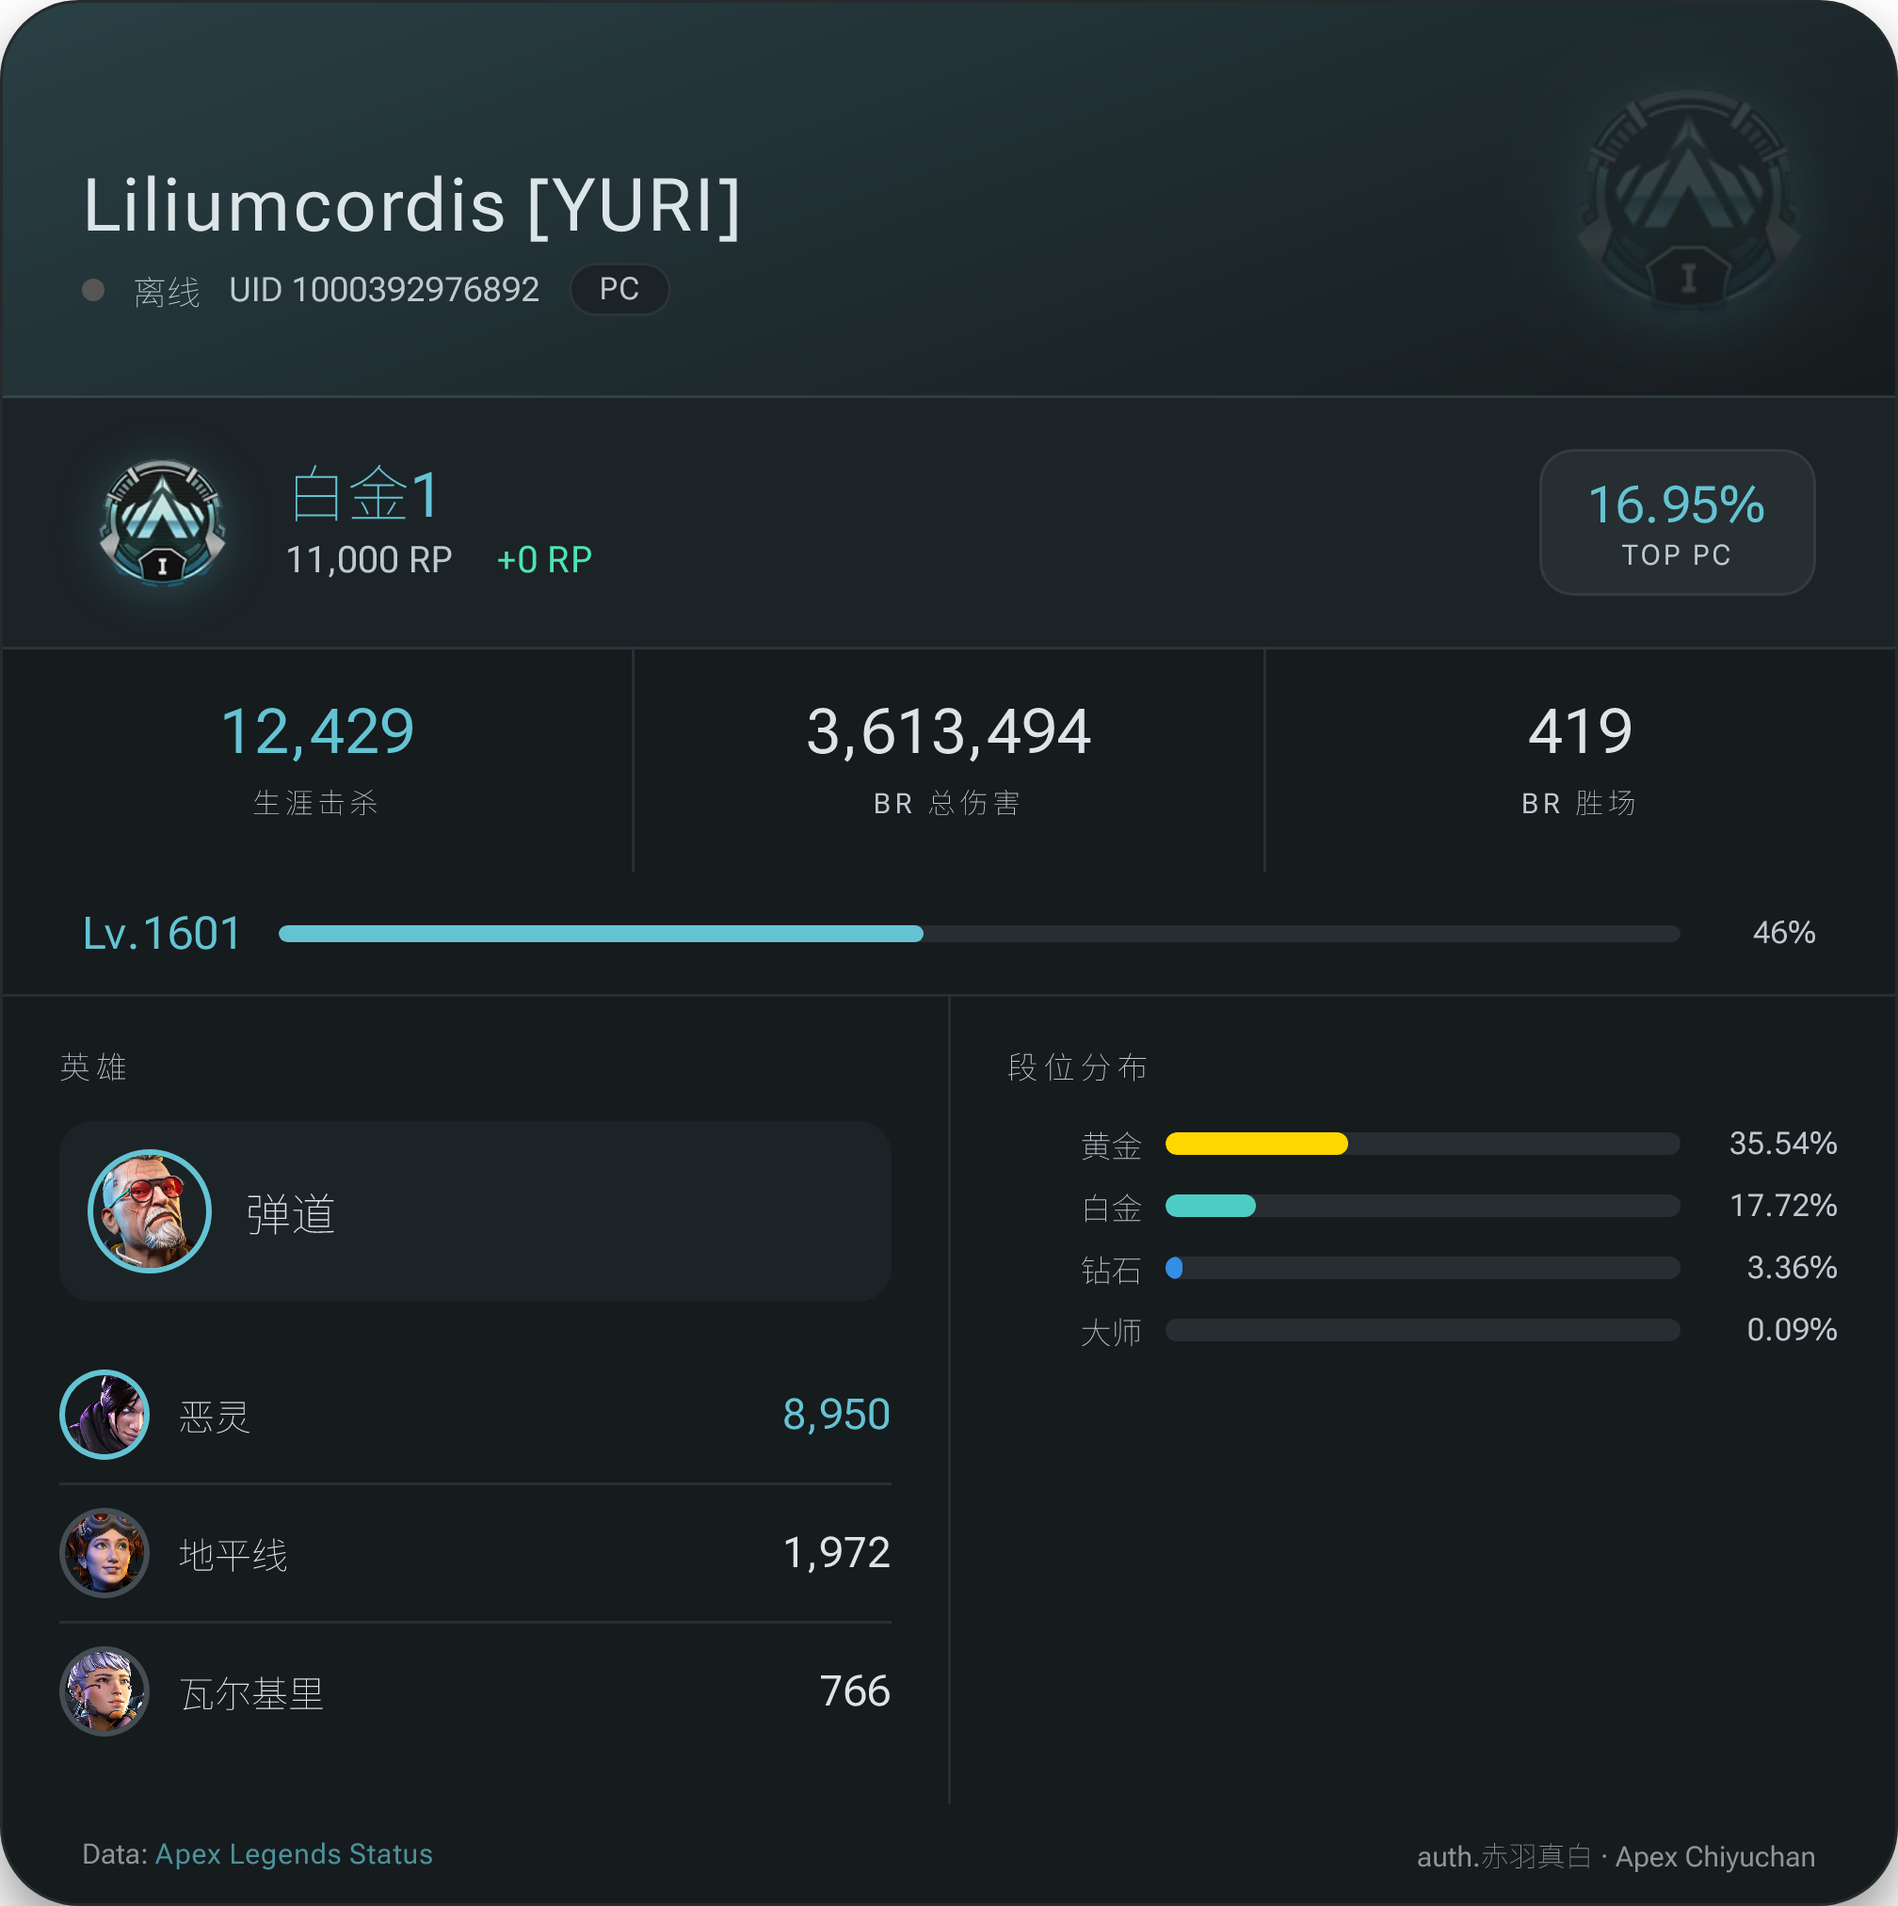
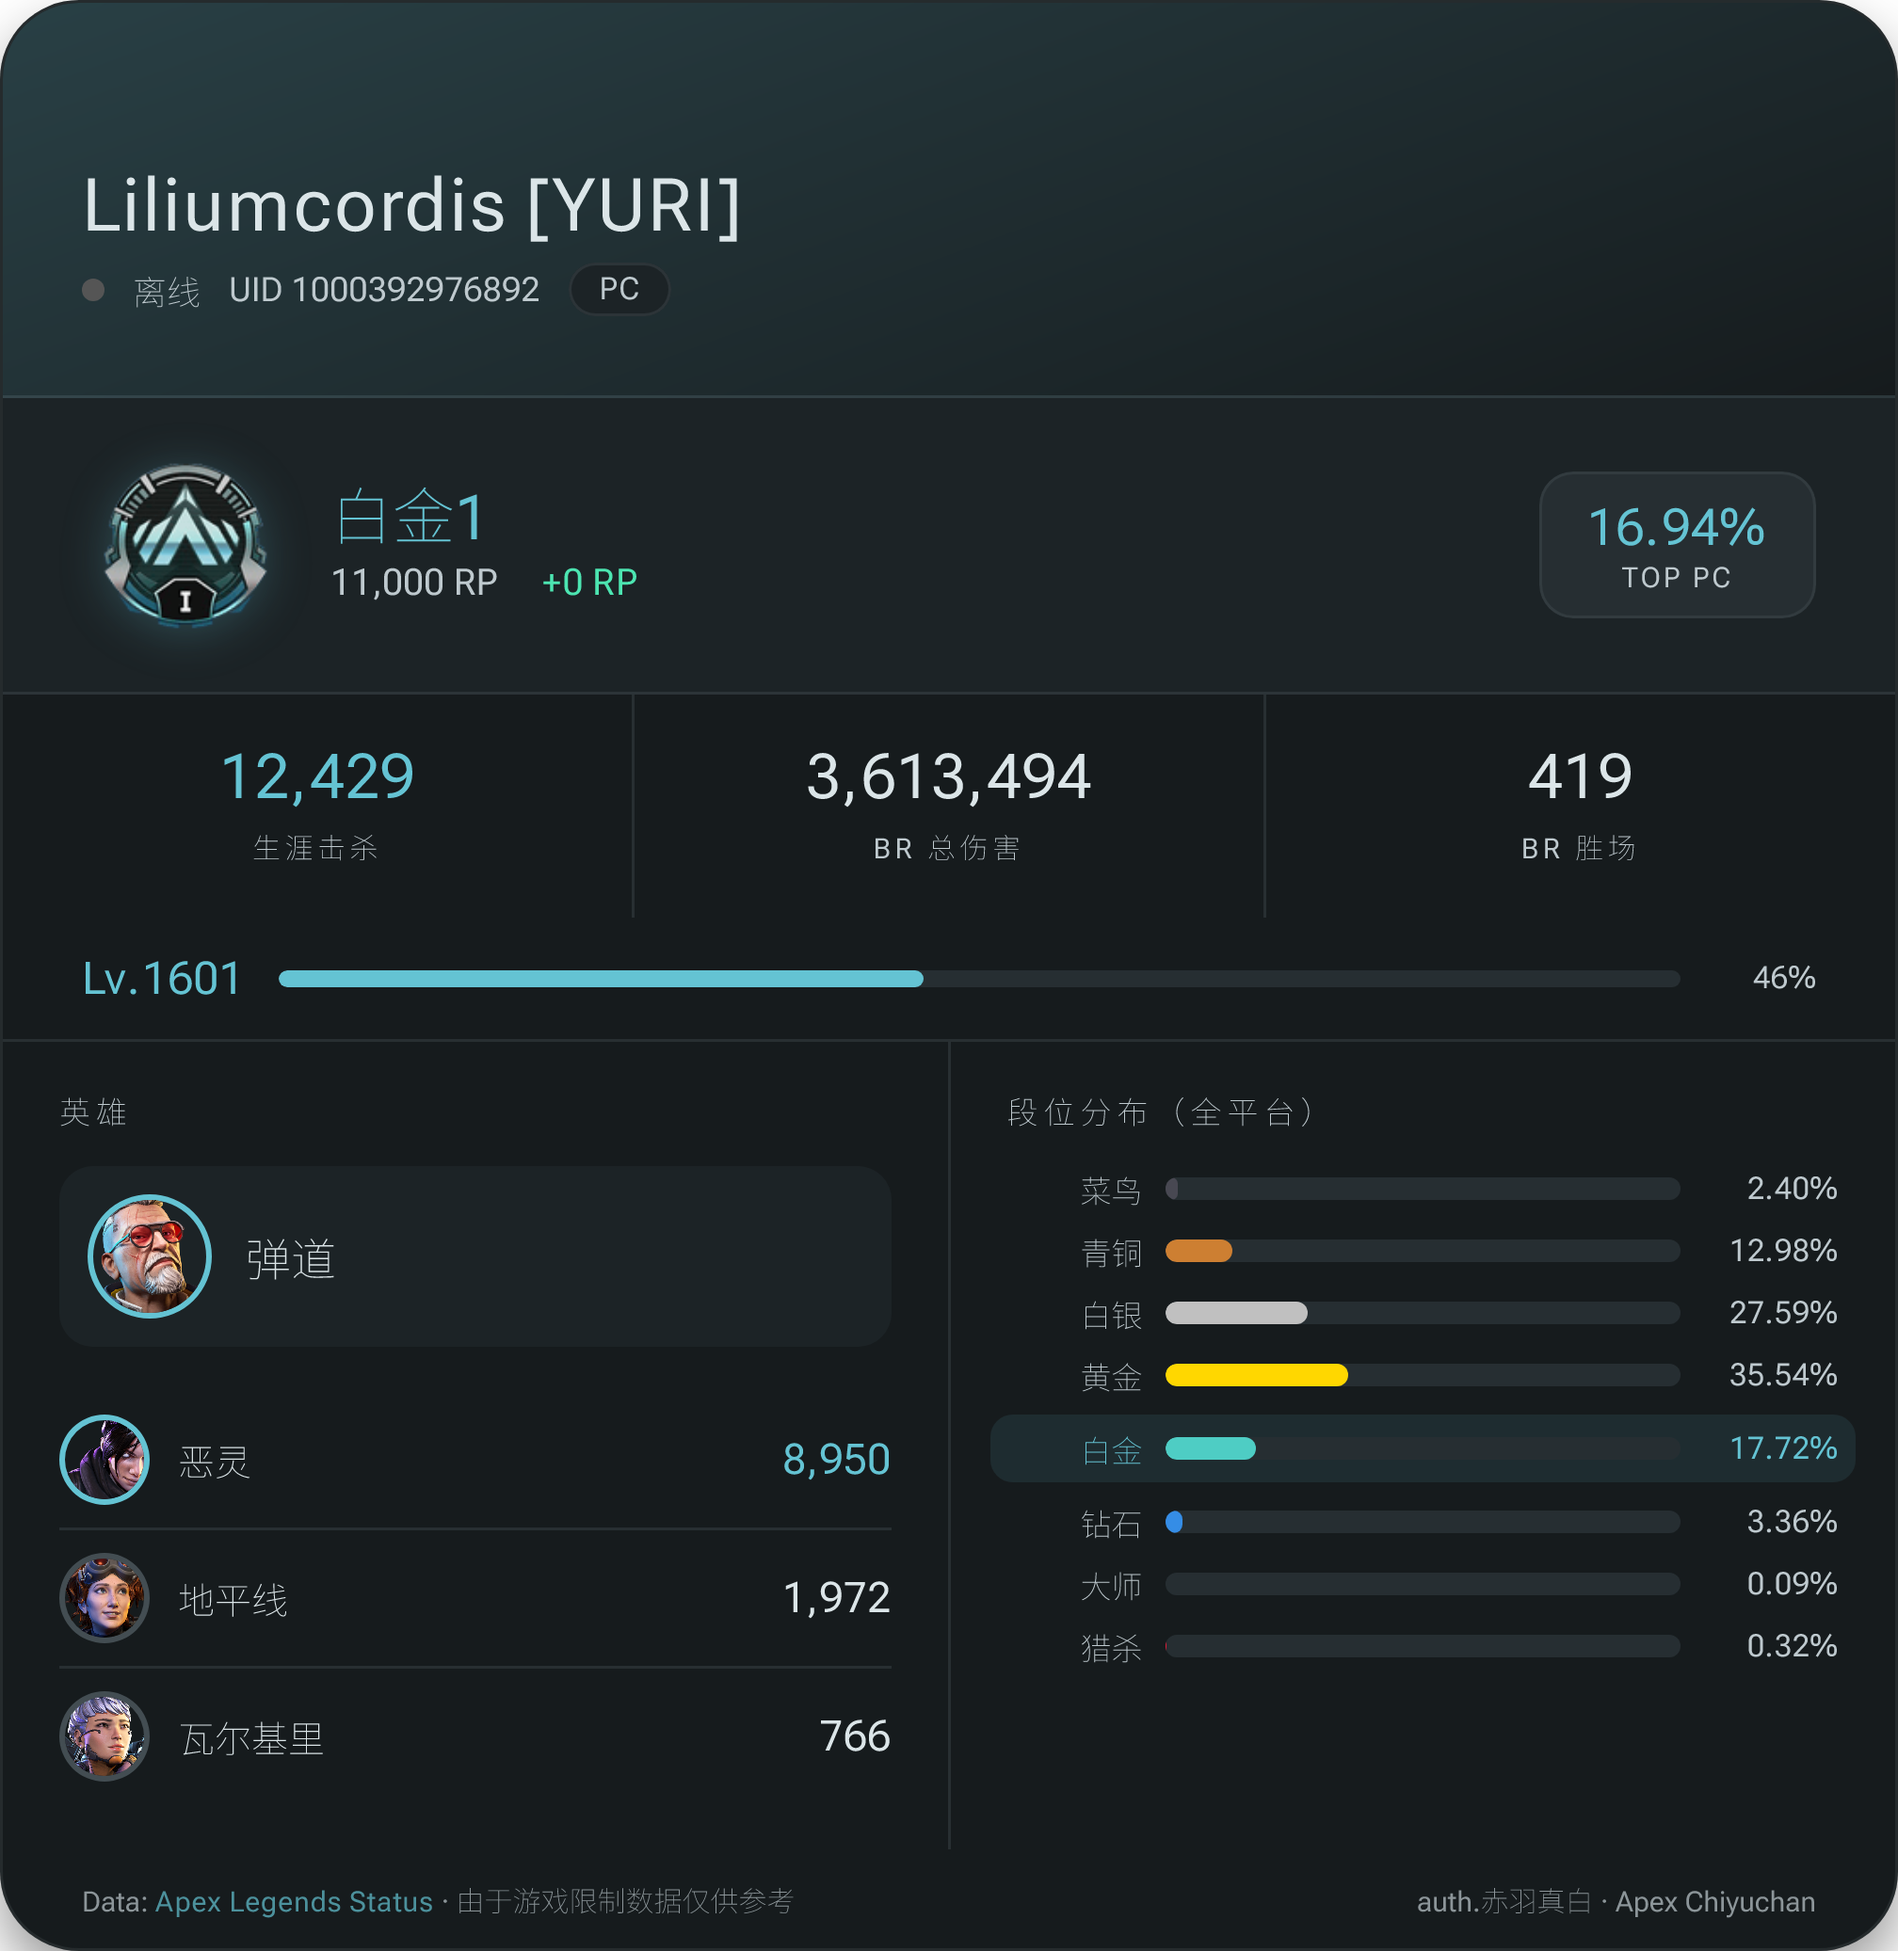
fix(stats): 段位分布全段位显示+高亮当前+细节优化
- 移除Hero横幅段位图标叠加
- 段位图标放大56→72px
- 段位分布: 4段位→全8段位显示，高亮当前段位(白金)
- 标题: 段位分布→段位分布（全平台）
- Footer: 添加'由于游戏限制数据仅供参考'
- _build_rank_dist_list: 移除窗口裁剪，返回全段位

diff --git a/libs/playwright_renderer.py b/libs/playwright_renderer.py
@@ -272,7 +272,7 @@ def _build_rank_dist(
 def _build_rank_dist_list(
     player_rank: str, player_top_pct: float, rank_dist_entries: list = None, *, theme: dict = None
 ) -> list[dict]:
-    """段位分布 — 返回 list[dict] 供 Jinja 模板渲染"""
+    """段位分布 — 返回 list[dict] 供 Jinja 模板渲染（全段位显示，高亮当前段位）"""
     if rank_dist_entries:
         tiers = [(e.name, e.pct, e.color, e.count) for e in rank_dist_entries]
     else:
@@ -288,24 +288,17 @@ def _build_rank_dist_list(
         ]
 
     player_tier = player_rank.split(" ")[0] if player_rank else ""
-    player_idx = next(
-        (i for i, t in enumerate(tiers) if t[0].lower() == player_tier.lower()), 0
-    )
-    start = max(0, player_idx - 1)
-    end = min(len(tiers), start + 4)
-    if end - start < 4:
-        start = max(0, end - 4)
-    visible = tiers[start:end]
 
     result = []
-    for name, pct, color, count in visible:
+    for name, pct, color, count in tiers:
+        is_player = name.lower() == player_tier.lower()
         result.append({
             "name": _rank_zh(name),
             "pct": min(pct, 50),
             "pct_display": f"{pct:.2f}",
             "color": color,
             "count_fmt": f"{count:,}",
-            "is_player": name.lower() == player_tier.lower(),
+            "is_player": is_player,
         })
     return result
 
